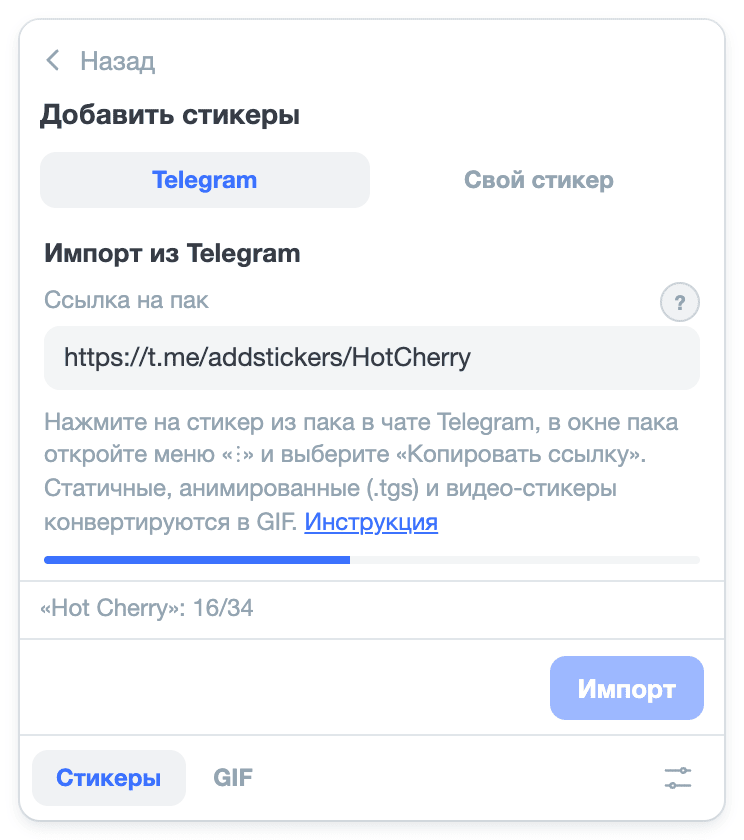
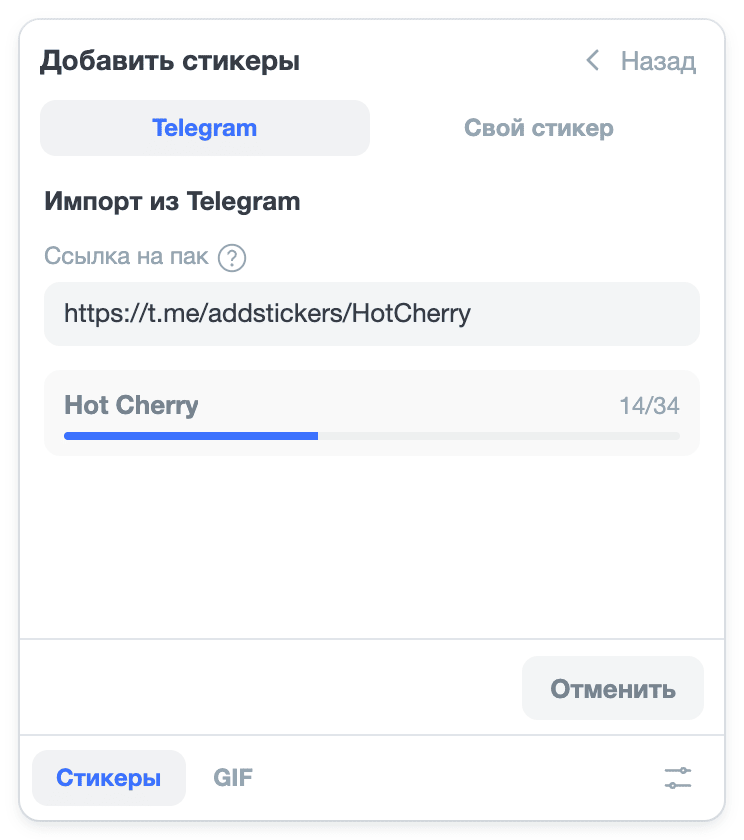
docs(screens-forms-ux): pack card and import cancel in docs and CLAUDE.md, stand check (12.5, 13.1-13.3)

diff --git a/src/core/ui/Picker/AddView/TelegramImport/PackCard/PackCard.tsx b/src/core/ui/Picker/AddView/TelegramImport/PackCard/PackCard.tsx
@@ -24,7 +24,9 @@ const SKELETON_CLASS = 'h-3.5 rounded bg-cadetGray-30/[.12] dark:bg-white-0/[.06
  * него. Текст карточки — описание поля ссылки, поэтому скринридер читает пак вместе с полем.
  *
  * Пока состав пака загружается, на месте строки — заглушка с `aria-busy` и текстом загрузки,
- * видным только скринридеру: высота карточки та же, и ответ не сдвигает футер.
+ * видным только скринридеру. Строка заглушки — `1.4em` кегля названия, как межстрочный интервал
+ * строки названия: ответ сдвигает низ карточки меньше чем на пиксель (выравнивание счётчика по
+ * базовой линии), если не добавляет пометку «уже в библиотеке».
  *
  * Во время импорта счётчик «N/M» скринридер читает значением полосы (`aria-valuetext`), а сам
  * текст от него скрыт — иначе прочитал бы его дважды. Ширина полосы — единственное
@@ -36,7 +38,10 @@ export const PackCard: FC<PackCardProps> = (props) => {
   if (card.status === 'loading') {
     return (
       <div id={id} aria-busy="true" className={CARD_CLASS}>
-        <div aria-hidden="true" className="flex items-center justify-between gap-2">
+        <div
+          aria-hidden="true"
+          className="flex h-[1.4em] items-center justify-between gap-2 text-xsm"
+        >
           <div className={`${SKELETON_CLASS} w-1/2`} />
 
           <div className={`${SKELETON_CLASS} w-16`} />

diff --git a/tests/telegram.test.ts b/tests/telegram.test.ts
@@ -126,8 +126,12 @@ const botMethods = (host: Host) => {
   });
 };
 
+/**
+ * Сброс, а не очистка: тест, который подменяет реализацию мока `db` на весь импорт
+ * (`mockImplementation`), иначе оставил бы её следующим тестам.
+ */
 beforeEach(() => {
-  vi.clearAllMocks();
+  vi.resetAllMocks();
   builtin.token = '';
 });
 

diff --git a/CLAUDE.md b/CLAUDE.md
@@ -132,7 +132,8 @@ src/
     pageClient*.ts   клиент агента в мире страницы: пометка поля ввода и `<input>` с файлом, команда и синхронный ответ
     fileName*.ts     имя отправляемого файла: сборка и разбор `[метка.]amostk.k-<вид>…gif`, вычистка метки,
                      `sendFileName` — имя для элемента пикера (`fileName.types.ts` — типы)
-    convert.ts       любой источник (картинка, GIF, видео, .tgs) → GIF: пробный и полные проходы, подпись, GIF как есть
+    convert.ts       любой источник (картинка, GIF, видео, .tgs) → GIF: пробный и полные проходы, подпись, GIF как есть,
+                     обрыв по `signal`
     sidePick.ts      выбор стороны по весу пробных кадров: ряд сторон, `MAX_GIF_BYTES`, `SAMPLE_FRAMES`, `SAFETY`
     encodeLadder.ts  лестница проходов: старт по пробе, повтор меньшей стороной, пока GIF тяжелее 2 МБ
     frameSource*.ts  источники кадров: план (позиция, задержка) и отрисовка кадра по номеру — видео, `.tgs`, картинка
@@ -163,8 +164,9 @@ src/
                      translate.ts — `setLocale`/`getLocale`, перевод `t` и `LocalizedError`; словари messages.ru.ts
                      (эталон ключей и подстановок) и messages.en.ts; i18n.types.ts — типы языка, ключей и подстановок
     sources/         gifs.ts — поиск GIPHY и KLIPY, выбор версии для отправки по весу, проверка ключа
-                     `checkGifKey`; telegram.ts — импорт пака через Bot API своим или встроенным токеном, проверка
-                     формата токена `isBotTokenFormat`
+                     `checkGifKey`; telegram.ts — состав пака `resolveTelegramSet` и исход его ошибки для карточки
+                     (`previewOutcome`), импорт пака через Bot API своим или встроенным токеном с отменой и откатом,
+                     проверка формата токена `isBotTokenFormat`
     ui/
       createPicker.tsx  фасад пикера для `app.ts`: shadow root, `open`/`close`/`setTheme`/`isHeld`, фаза панели,
                         рендер Preact-дерева, второй хост — слой предпросмотра на странице (`previewElement`)
@@ -175,7 +177,8 @@ src/
       Picker/           компоненты и хуки пикера, каждый в своём каталоге:
                         Picker.tsx — панель: оба режима, экран поверх них, строка статуса, футер;
                         PickerProvider/ — контекст (окружение, настройки, паки, статус, отправка, удержание, object
-                        URL, импорт из Telegram); usePickerView/ — режим, экран, якорь ленты стикеров, режим первого
+                        URL, импорт из Telegram: кэш состава паков `packPreview/`, карточка пака `packCardView/`, ход
+                        импорта `runPackImport/`); usePickerView/ — режим, экран, якорь ленты стикеров, режим первого
                         открытия (`startMode.ts`); Footer/ — переключатель режимов и кнопка «Настройки»; ModePanel/ —
                         панель режима и память её прокрутки;
                         StickersMode/ — режим «Стикеры»: разделы, окно ленты, активный раздел, план перехода к разделу
@@ -200,7 +203,8 @@ src/
                         Screen/ — экран поверх режима: «Назад», заголовок `h2`, тело и необязательный футер с главной
                         кнопкой, фокус в первое поле (`useScreenFocus/`);
                         AddView/ — «Добавить стикеры»: сегменты (`SegmentTab/`, `SegmentForm/`), панели
-                        `TelegramImport/` (кнопка «?» `HintToggle/`, раскрытие инструкции `useImportHint/`) и
+                        `TelegramImport/` (кнопка «?» `HintToggle/`, раскрытие инструкции `useImportHint/`, карточка
+                        пака `PackCard/`, «Импорт» / «Отменить» — `TelegramImportFooter/`) и
                         `CreateSticker/` (зона загрузки `DropZone/` с превью `DraftPreview/`, кнопки футера обеих —
                         рядом с панелями);
                         SettingsView/ — «Настройки»: автосохранение и проверка (`useSettingsDraft/`, что писать и что
@@ -370,8 +374,26 @@ preflight Tailwind не сбрасывает вёрстку страницы. К
   импорт их очищает, правка ссылки снимает ошибку. Ссылка без имени пака — ошибка у поля без запроса. Ошибка импорта
   встаёт к полю, только если в момент её прихода открыт экран на сегменте «Telegram», иначе уходит в статус
   (`importErrorTarget` в `finishImport/`): ушедший с экрана поля не видит. Ход импорта — чистый `runPackImport/`;
-  счётчик «N/M» стоит под полосой прогресса справа (`ImportProgress/`, для скринридера — `aria-valuetext` полосы), а
   строка статуса ход дублирует, только когда сегмента «Telegram» не видно.
+- **Карточка пака** (`PackCard/`) — под полем ссылки, её текст — описание поля. Новое имя пака в поле через 300 мс
+  паузы запрашивает состав (`resolveTelegramSet`) через `packPreview/`: кэш промиса по имени до перезагрузки страницы,
+  отклонённый удаляется — повтор после сбоя делает новый запрос; импорт берёт набор из того же кэша, и `getStickerSet`
+  по имени уходит один раз. Ответ по имени, которого в поле уже нет, отбрасывается по номеру запроса. Пока состав
+  грузится — заглушка с `aria-busy`; затем название (`truncate`), «Стикеров: N» и, если пак есть в списке паков,
+  «Уже в библиотеке — импорт обновит пак». «Пак не найден» (400 или `ok: false`, `previewOutcome`) — ошибка у поля и
+  недоступная «Импорт» (`isPackMissing`), пока имя то же; любой другой сбой и отсутствие токена карточку молча
+  убирают и импорт не блокируют — он покажет свою ошибку сам. Во время импорта карточка — снимок импортируемого пака
+  (что показать — чистый `packCardView/`): правка поля её не меняет, а «N/M» скринридер читает `aria-valuetext` полосы.
+- **Отмена импорта.** Пока импорт идёт, на месте «Импорт» — «Отменить» (`TelegramImportFooter/`): тот же `Button` без
+  `key`, поэтому фокус переходит с кнопки на кнопку; `secondary`, `type="button"` — Enter в поле её не нажимает, а
+  клик с `detail > 1` (второй клик двойного по «Импорт») игнорируется (`isRepeatClick/`). Нажатие обрывает
+  `AbortController` провайдера: `importTelegramSet` проверяет `signal` перед `getFile`, скачиванием, конвертацией и
+  записью стикера, запрос в полёте не обрывается, но ответ отбрасывается; конвертация проверяет его перед каждым кадром
+  и проходом лестницы, и Worker идущего прохода останавливается. Отменённый импорт откатывается до броска
+  `signal.reason`: новый пак удаляется со стикерами, у импортированного раньше возвращается прежняя запись, а стикеры не
+  из снимка id до начала удаляются — перезаписанные повтором остаются. Исход `onCancel` (`runPackImport/`) перечитывает
+  паки и пишет «Импорт отменён» в статус — не ошибкой; ссылка, карточка и ошибка поля не трогаются, лента не
+  прокручивается, удержание `import` снимается.
 - **Инструкция импорта.** Раскрыта при первом показе сегмента «Telegram» и свёрнута после: признак `importHint.ts`
   читается при монтировании экрана, а пишется при показе сегмента, а не по успешному импорту — инструкцию видел и тот,
   кто импорт не довёл. Сбой хранилища — инструкция раскрыта. Кнопка «?» (`HintToggle/`, имя — «Как получить ссылку») —
@@ -652,9 +674,9 @@ userscript; `background.js` конвертацию не импортирует, 
 
 Vitest плагина не знает, поэтому `gif-worker:code` в тестах не грузится: его импортирует только `workerSink.ts`, а
 тесты проверяют клиент Worker-а (`workerSinkClient.ts`) и протокол (`gifWorker.ts`) без него. `convert.ts` и
-`frameSink.ts` тесты не импортируют напрямую, а тест модуля, который тянет `convert.ts` транзитивно
-(`telegram.test.ts` через `sources/telegram.ts`), обязан подменить его `vi.mock` — иначе импорт упрётся в
-`gif-worker:code`.
+`frameSink.ts` тесты без подмены не импортируют: `convert.test.ts` берёт `convert.ts` с подменой `frameSink` и
+`frameSource` через `vi.mock`, а тест модуля, который тянет `convert.ts` транзитивно (`telegram.test.ts` через
+`sources/telegram.ts`), обязан подменить его самого — иначе импорт упрётся в `gif-worker:code`.
 
 ### Отправка
 
@@ -850,11 +872,13 @@ GIF-блобы; у своего стикера — ещё подпись `captio
   тело сверх лимита не дочитывается, в тексте — то, что успело прийти. Ошибки политики, лимита и HTTP у всех
   окружений общие — из `core/net.ts`; политика и лимит — `LocalizedError`, чтобы отказ SW показывался на языке amo
   («Язык интерфейса»);
-- токен Bot API — свой из «Настроек» или встроенный в сборку (`importTelegramSet`: свой важнее, `noToken` — только без
-  обоих). Встроенный в настройки не попадает: `DEFAULT_SETTINGS.telegramToken` пуст, иначе он оказался бы в поле ввода
-  и автосохранением — в хранилище; `SettingsView` по `BUILTIN_TELEGRAM_TOKEN` лишь меняет подпись и подсказку поля
-  (`labelOptional` / `hintOptional`). На встроенном токене отказ бота — статус 401 или 429 у `getStickerSet`,
-  `getFile` и скачивания файла, разобранный `httpStatus` из текста `httpError`, — становится
+- состав пака — `resolveTelegramSet`: битая ссылка и отсутствие токена — ошибка без запроса, ответ `getStickerSet`
+  проходит гард набора; им показывают карточку пака до импорта, и он же уходит в `importTelegramSet`;
+- токен Bot API — свой из «Настроек» или встроенный в сборку (`resolveTelegramSet` и `importTelegramSet`: свой важнее,
+  `noToken` — только без обоих). Встроенный в настройки не попадает: `DEFAULT_SETTINGS.telegramToken` пуст, иначе он
+  оказался бы в поле ввода и автосохранением — в хранилище; `SettingsView` по `BUILTIN_TELEGRAM_TOKEN` лишь меняет
+  подпись и подсказку поля (`labelOptional` / `hintOptional`). На встроенном токене отказ бота — статус 401 или 429
+  у `getStickerSet`, `getFile` и скачивания файла, разобранный `httpStatus` из текста `httpError`, — становится
   `error.telegram.builtinUnavailable` с подсказкой про свой токен и останавливает импорт: оставшиеся стикеры не
   запрашиваются тем же отозванным токеном или в тот же лимит общего бота, уже импортированные остаются; прочие ошибки
   (400 «пак не найден», сеть, лимит) и любые ошибки на своём токене показываются как есть. Статус берётся из текста, а

diff --git a/docs/content/setup/telegram.md b/docs/content/setup/telegram.md
@@ -24,20 +24,27 @@
 
 1. В amo stickers откройте режим «Стикеры» и нажмите «+» справа от вкладок разделов — откроется экран «Добавить
    стикеры».
-2. Вверху экрана выберите «Telegram», если открыт «Свой стикер». Вставьте ссылку в поле «Ссылка на пак» и нажмите
-   «Импорт» или Enter. Под полем при первом показе экрана раскрыта короткая инструкция, как получить ссылку на пак;
-   дальше она свёрнута — раскройте её кнопкой «?» у поля.
-3. Дождитесь конца импорта: внизу панели идёт счёт стикеров, например «„Имя пака“: 12/40», а в конце — «Пак „Имя пака“
-   добавлен». Пока идёт импорт, панель не закрывается, если увести с неё курсор.
+2. Вверху экрана выберите «Telegram», если открыт «Свой стикер». Вставьте ссылку в поле «Ссылка на пак» — под полем
+   появится карточка пака: его название и число стикеров. Если пак уже импортирован, карточка скажет, что импорт
+   обновит его. Нажмите «Импорт» или Enter. Под полем при первом показе экрана раскрыта короткая инструкция,
+   как получить ссылку на пак; дальше она свёрнута — раскройте её кнопкой «?» у поля.
+3. Дождитесь конца импорта: в карточке пака идут полоса и счёт стикеров, например «12/40», а в конце внизу панели — «Пак
+   „Имя пака“ добавлен». Если уйти с экрана «Добавить стикеры», счёт идёт внизу панели. Пока идёт импорт, панель
+   не закрывается, если увести с неё курсор.
 
-![Экран «Добавить стикеры», вкладка «Telegram»: ссылка на пак в поле «Ссылка на пак», под полем — инструкция, полоса прогресса и счёт стикеров «„Hot Cherry“: 16/34» внизу панели](../img/setup/telegram-import.png)
+![Экран «Добавить стикеры», вкладка «Telegram»: ссылка на пак в поле «Ссылка на пак», под полем — карточка пака «Hot Cherry» с полосой прогресса и счётом 14/34, в футере — кнопка «Отменить»](../img/setup/telegram-import.png)
 
 Пак появится отдельной вкладкой в режиме «Стикеры». Стикеры каждого пака конвертируются один раз при импорте — дальше
 они отправляются сразу.
 
+Передумали — нажмите «Отменить»: во время импорта она стоит на месте кнопки «Импорт». Библиотека останется
+как до импорта: нового пака не будет, а пак, импортированный раньше, сохранит прежние стикеры. Внизу панели появится
+«Импорт отменён», ссылка останется в поле — импорт можно начать заново.
+
 ## Если не получилось
 
 Ошибка импорта появляется под полем «Ссылка на пак», а если вы ушли с экрана «Добавить стикеры» — внизу панели.
+Если карточка пака под полем не появилась, импорт всё равно доступен: что не так, скажет ошибка при импорте.
 
 - **«Встроенный бот Telegram недоступен. Укажите свой токен бота в настройках»** — Telegram отказал встроенному боту:
   тот упёрся в лимит запросов или его токен отозван. Повторите импорт позже или заведите [свой бот](#own-bot).
@@ -47,7 +54,8 @@
   [шагу 1](#pack-link).
 - **«HTTP 401 … Unauthorized»** — Telegram не принял ваш токен. Проверьте, что токен скопирован целиком, или получите
   его заново по шагу [«Скопируйте токен»](#own-bot-token) и вставьте в «Настройки».
-- **«HTTP 400 … STICKERSET_INVALID»** — Telegram не нашёл пак. Проверьте, что пак открывается по ссылке в самом
+- **«HTTP 400 … STICKERSET_INVALID»** — Telegram не нашёл пак. Эта ошибка появляется под полем сразу после вставки
+  ссылки, и кнопка «Импорт» недоступна, пока ссылку не исправят. Проверьте, что пак открывается по ссылке в самом
   Telegram, и скопируйте ссылку заново по [шагу 1](#pack-link).
 
 ## Свой бот (необязательно) {#own-bot}

diff --git a/docs/content/en/setup/telegram.md b/docs/content/en/setup/telegram.md
@@ -25,22 +25,30 @@ pack name — the part of the link after the last `/` — works too.
 
 1. In amo stickers, open the “Stickers” mode and click “+” to the right of the section tabs — the “Add stickers”
    screen will open.
-2. At the top of the screen, choose “Telegram” if “Custom sticker” is open. Paste the link into the “Pack link” field
-   and click “Import” or press Enter. The first time the screen opens, a short guide on getting the pack link
-   is expanded under the field; after that it’s collapsed — expand it with the “?” button next to the field.
-3. Wait for the import to finish: the panel shows a sticker count at the bottom, for example **“Pack name”: 12/40**,
-   and at the end **Pack “Pack name” added**. While the import is running, the panel doesn’t close if you move the
-   cursor away from it.
+2. At the top of the screen, choose “Telegram” if “Custom sticker” is open. Paste the link into the “Pack link” field —
+   a pack card will appear under the field with the pack name and the number of stickers. If the pack is already
+   imported, the card says that importing will update it. Click “Import” or press Enter. The first time the screen
+   opens, a short guide on getting the pack link is expanded under the field; after that it’s collapsed — expand it with
+   the “?” button next to the field.
+3. Wait for the import to finish: the pack card shows a progress bar and a sticker count, for example **12/40**,
+   and at the end the bottom of the panel shows **Pack “Pack name” added**. If you leave the “Add stickers” screen,
+   the count goes on at the bottom of the panel. While the import is running, the panel doesn’t close if you move
+   the cursor away from it.
 
-![The “Add stickers” screen, “Telegram” tab: a pack link in the “Pack link” field, the guide below it, a progress bar and the sticker count “Hot Cherry”: 16/34 at the bottom of the panel](../../img/setup/telegram-import.png)
+![The “Add stickers” screen, “Telegram” tab: a pack link in the “Pack link” field, under it the “Hot Cherry” pack card with a progress bar and the count 14/34, and the “Cancel” button in the footer](../../img/setup/telegram-import.png)
 
 The pack will appear as a separate tab in the “Stickers” mode. The stickers of each pack are converted once during
 import — after that they are sent right away.
 
+Changed your mind? Click “Cancel”: while the import is running, it takes the place of the “Import” button. Your library
+stays as it was before the import: a new pack won’t appear, and a pack imported earlier keeps its previous stickers.
+The bottom of the panel shows **Import canceled**, and the link stays in the field — you can start the import again.
+
 ## If it didn’t work
 
 An import error appears under the “Pack link” field, or at the bottom of the panel if you’ve left the “Add stickers”
-screen.
+screen. If no pack card appears under the field, you can still import: if something is wrong, the import will show
+an error.
 
 - **“The built-in Telegram bot is unavailable. Enter your own bot token in settings”** — Telegram refused the
   built-in bot: it hit the request limit or its token was revoked. Try the import again later or set up
@@ -51,8 +59,9 @@ screen.
   following [step 1](#pack-link).
 - **“HTTP 401 … Unauthorized”** — Telegram didn’t accept your token. Check that the token is copied in full, or get it
   again following the [“Copy the token”](#own-bot-token) step and paste it into “Settings”.
-- **“HTTP 400 … STICKERSET_INVALID”** — Telegram didn’t find the pack. Check that the pack opens from the link in
-  Telegram itself, and copy the link again following [step 1](#pack-link).
+- **“HTTP 400 … STICKERSET_INVALID”** — Telegram didn’t find the pack. This error appears under the field right after
+  you paste the link, and “Import” stays unavailable until the link is fixed. Check that the pack opens from the link
+  in Telegram itself, and copy the link again following [step 1](#pack-link).
 
 ## Your own bot (optional) {#own-bot}
 

diff --git a/openspec/changes/screens-forms-ux/tasks.md b/openspec/changes/screens-forms-ux/tasks.md
@@ -147,15 +147,15 @@
 - [x] 12.4 `Button` передаёт событие клика в `onClick`; `TelegramImportFooter` во время импорта — тот же узел
   «Отменить», вариант `secondary`, `type="button"`, клик с `detail > 1` игнорируется; ключи словаря парой (D12);
   проверка: `pnpm lint`, стенд — сценарии «Фокус на кнопке», «Двойной клик по «Импорт»», «Enter во время импорта»
-- [ ] 12.5 Стенд (userscript без менеджера), видеопак: сценарии «Отмена нового пака», «Отмена повторного импорта»,
+- [x] 12.5 Стенд (userscript без менеджера), видеопак: сценарии «Отмена нового пака», «Отмена повторного импорта»,
   «Нет запросов после отмены» (вкладка Network и консоль — Worker остановлен), «Импорт после отмены»; попап, открытый
   наведением, после отмены закрывается уходом курсора; VoiceOver — имя кнопки после замены (итог — в журнал)
 
 ## 13. Завершение дополнений
 
-- [ ] 13.1 CLAUDE.md: «Структура» (`PackCard/`, `packPreview/`) и «Как работает» — карточка пака и отмена импорта
+- [x] 13.1 CLAUDE.md: «Структура» (`PackCard/`, `packPreview/`) и «Как работает» — карточка пака и отмена импорта
   в описании «Добавить стикеры», `resolveTelegramSet` в «Внешние данные»
-- [ ] 13.2 Дока `docs/content/setup/telegram.md` и `en/setup/telegram.md`: карточка пака после вставки ссылки и кнопка
+- [x] 13.2 Дока `docs/content/setup/telegram.md` и `en/setup/telegram.md`: карточка пака после вставки ссылки и кнопка
   «Отменить»; текст через typograf по тексту; проверка: `pnpm docs:build`, `tests/userDocsPages.test.ts`
-- [ ] 13.3 Охват перевода (поиск кириллицы вне комментариев в `src/`), `pnpm lint` и `pnpm test` — без ошибок и
+- [x] 13.3 Охват перевода (поиск кириллицы вне комментариев в `src/`), `pnpm lint` и `pnpm test` — без ошибок и
   предупреждений

diff --git a/openspec/changes/screens-forms-ux/journal.md b/openspec/changes/screens-forms-ux/journal.md
@@ -130,3 +130,12 @@
 - Стенд (headless Chrome, userscript, video_gachi): сценарии «Карточка пака» (кроме 429 и длинного названия), фокус, Enter, двойной клик, ru/en, темы, 350×400 без прокрутки. Описание поля во время импорта: «<название> 4/45» (Chrome включает `aria-valuetext`).
 - Аудит: ok с первого круга.
 - Долг: комментарий PackCard.tsx:27 про «ту же высоту» неточен (заглушка 14 px против ~18 px); DropZone не переведён на вариант `secondary`; «Пак не найден» показывает сырой `HTTP 400 {…}` — отдельный issue.
+
+### G12 · Стенд, дока и итог дополнения
+
+- Стенд 12.5 (headless, userscript, video_gachi, подсчёт fetch и Worker обёрткой в initScript): повторный импорт с 42/45 в базе, отмена на 3/45 и 5/45 — состав = снимок 42 id, createdAt пака прежний; отмена посреди кадров — только `worker:terminate` через 26 мс, ни кадров, ни getFile; отмена при getFile в полёте — файл не скачан; новый пак, отмена на 5/45 — пака нет, статус «Import canceled», ссылка и карточка на месте, фокус на кнопке; попап наведением закрывается уходом после отмены; импорт после отмены — 45/45, getStickerSet 0 (кэш).
+- Долг закрыт: заглушка PackCard `h-[1.4em] text-xsm`; `vi.resetAllMocks` в telegram.test.ts; CLAUDE.md про прямой импорт convert.ts.
+- 13.1 CLAUDE.md, 13.2 дока ru/en и скрин telegram-import.png (публичный пак, pngquant), 13.3 охват перевода, lint, test.
+- Аудит: ok с первого круга.
+- Пользователю: VoiceOver — имя кнопки после замены (дерево доступности: тот же узел, имя Import → Cancel → Import).
+- Долг: дока говорит «счёт внизу панели, если уйти с экрана», а статус дублирует ход и на сегменте «Свой стикер».
